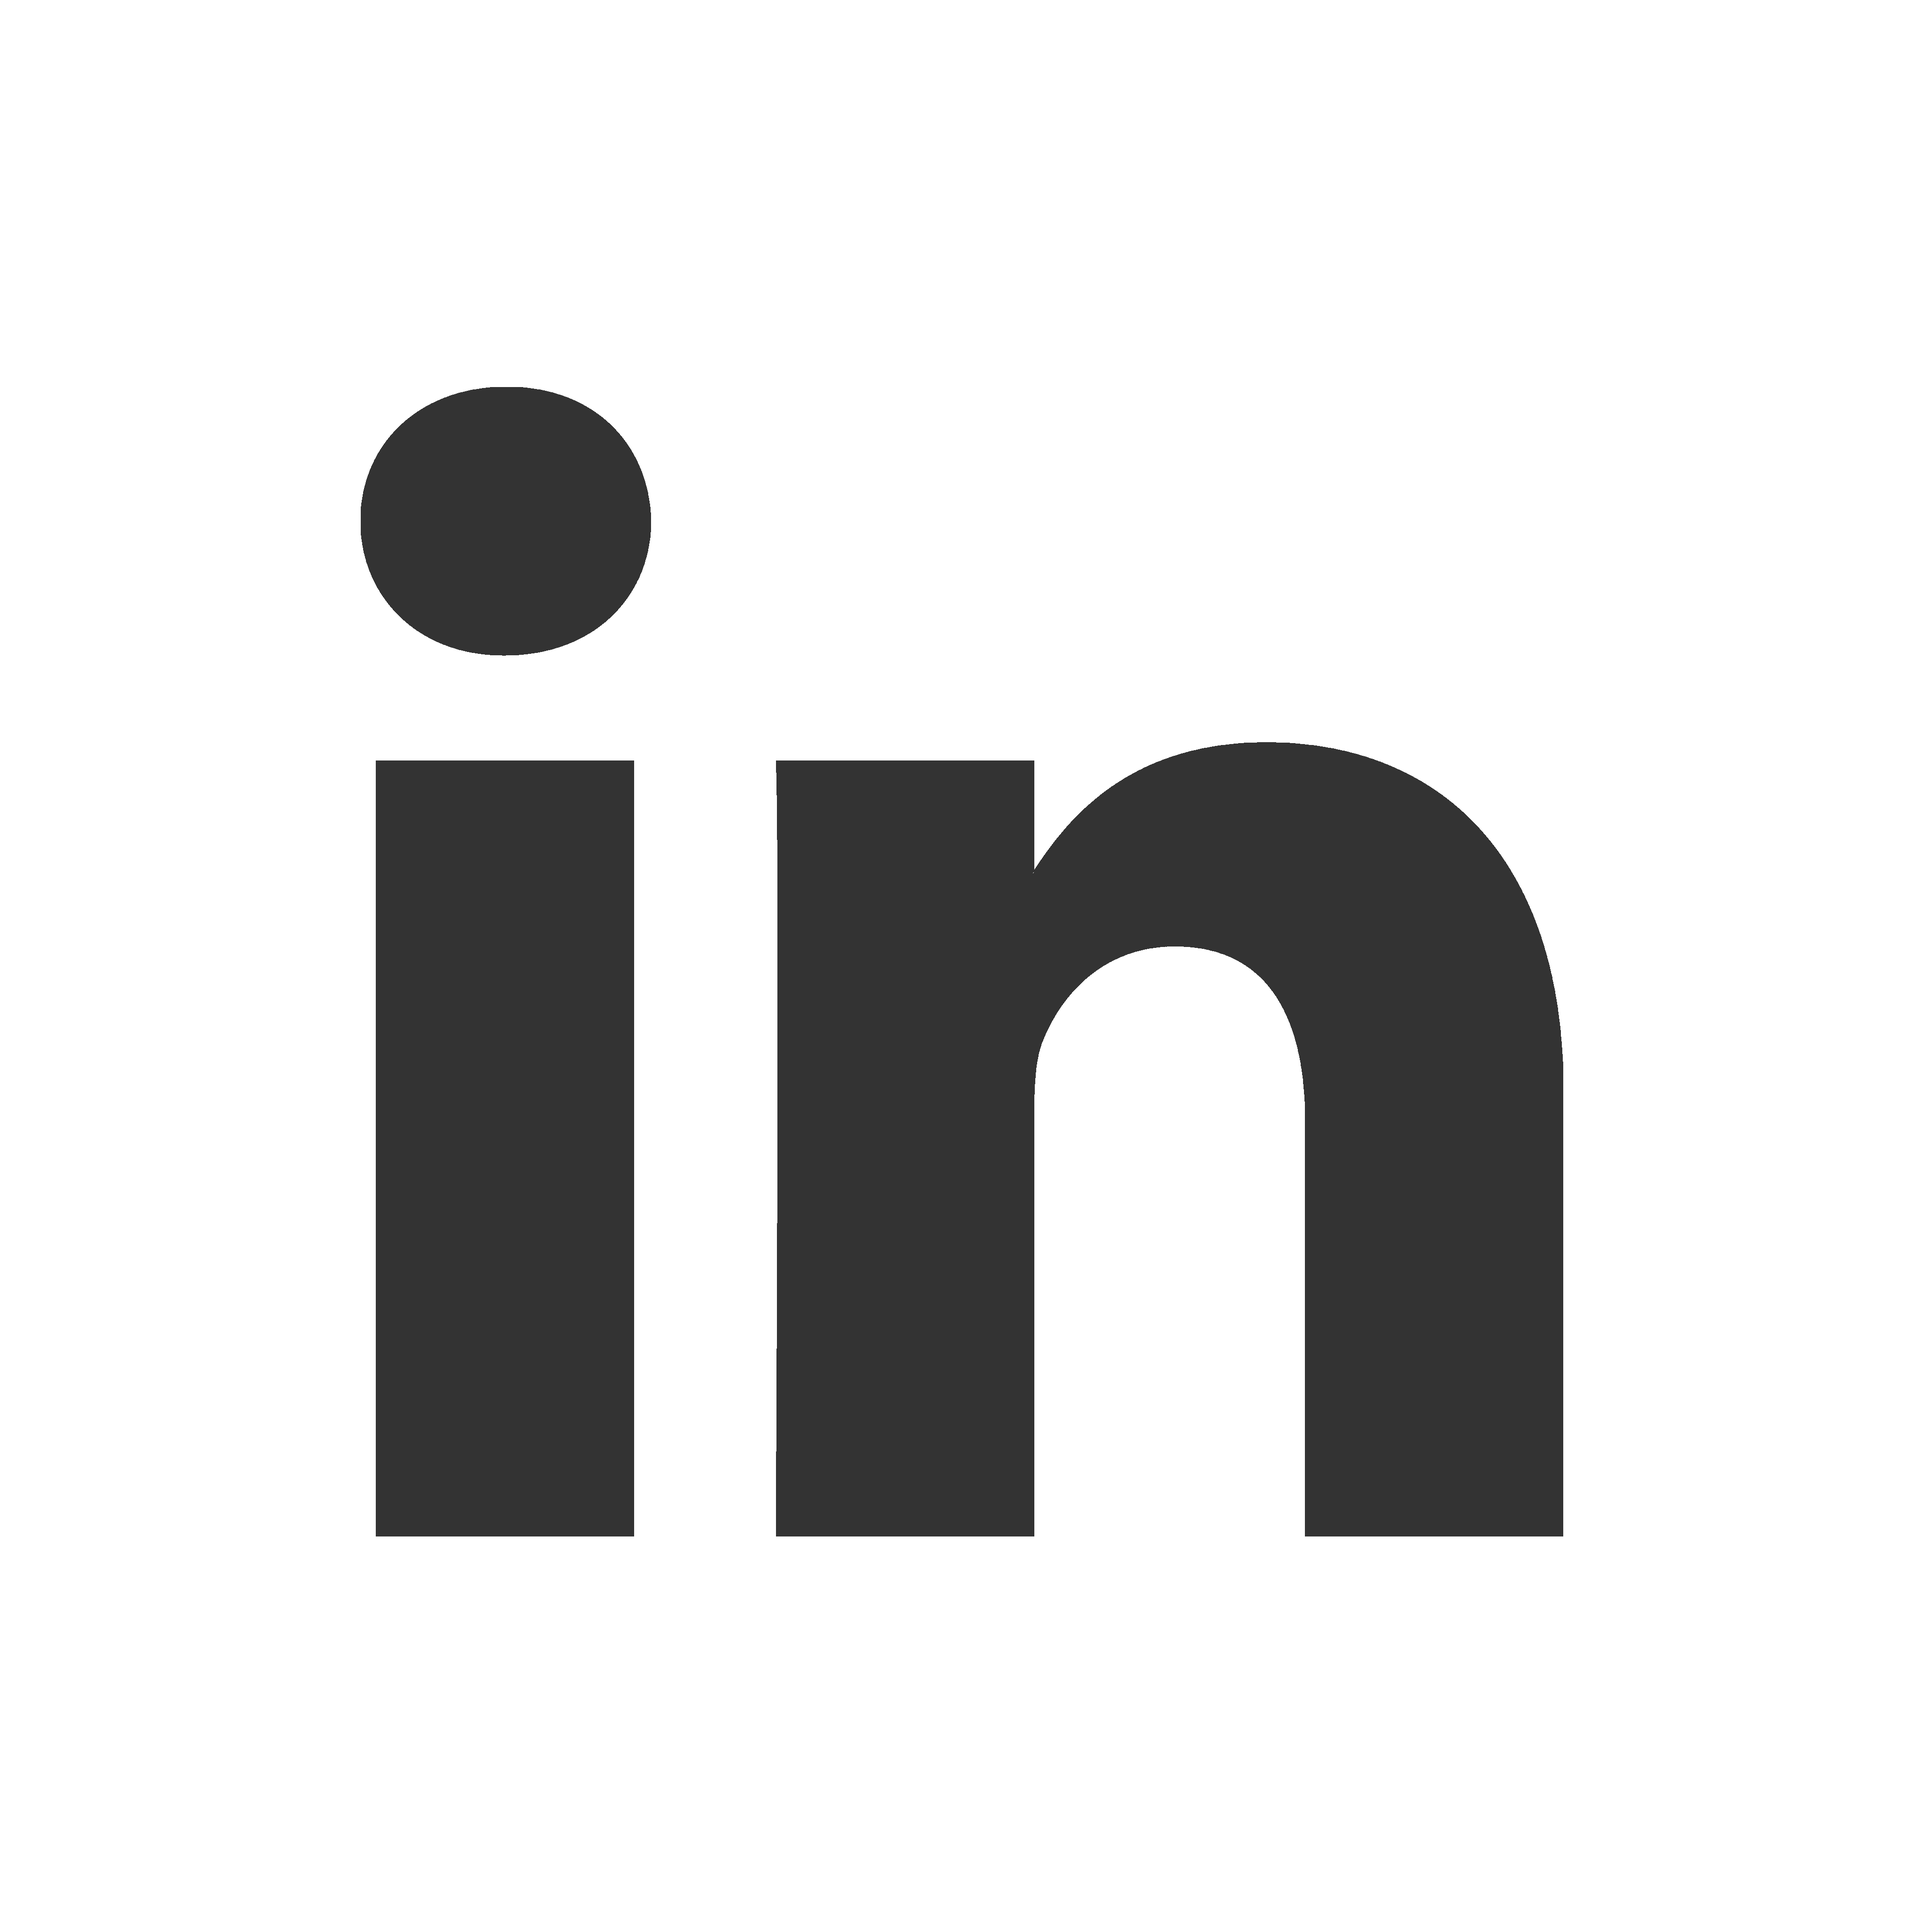
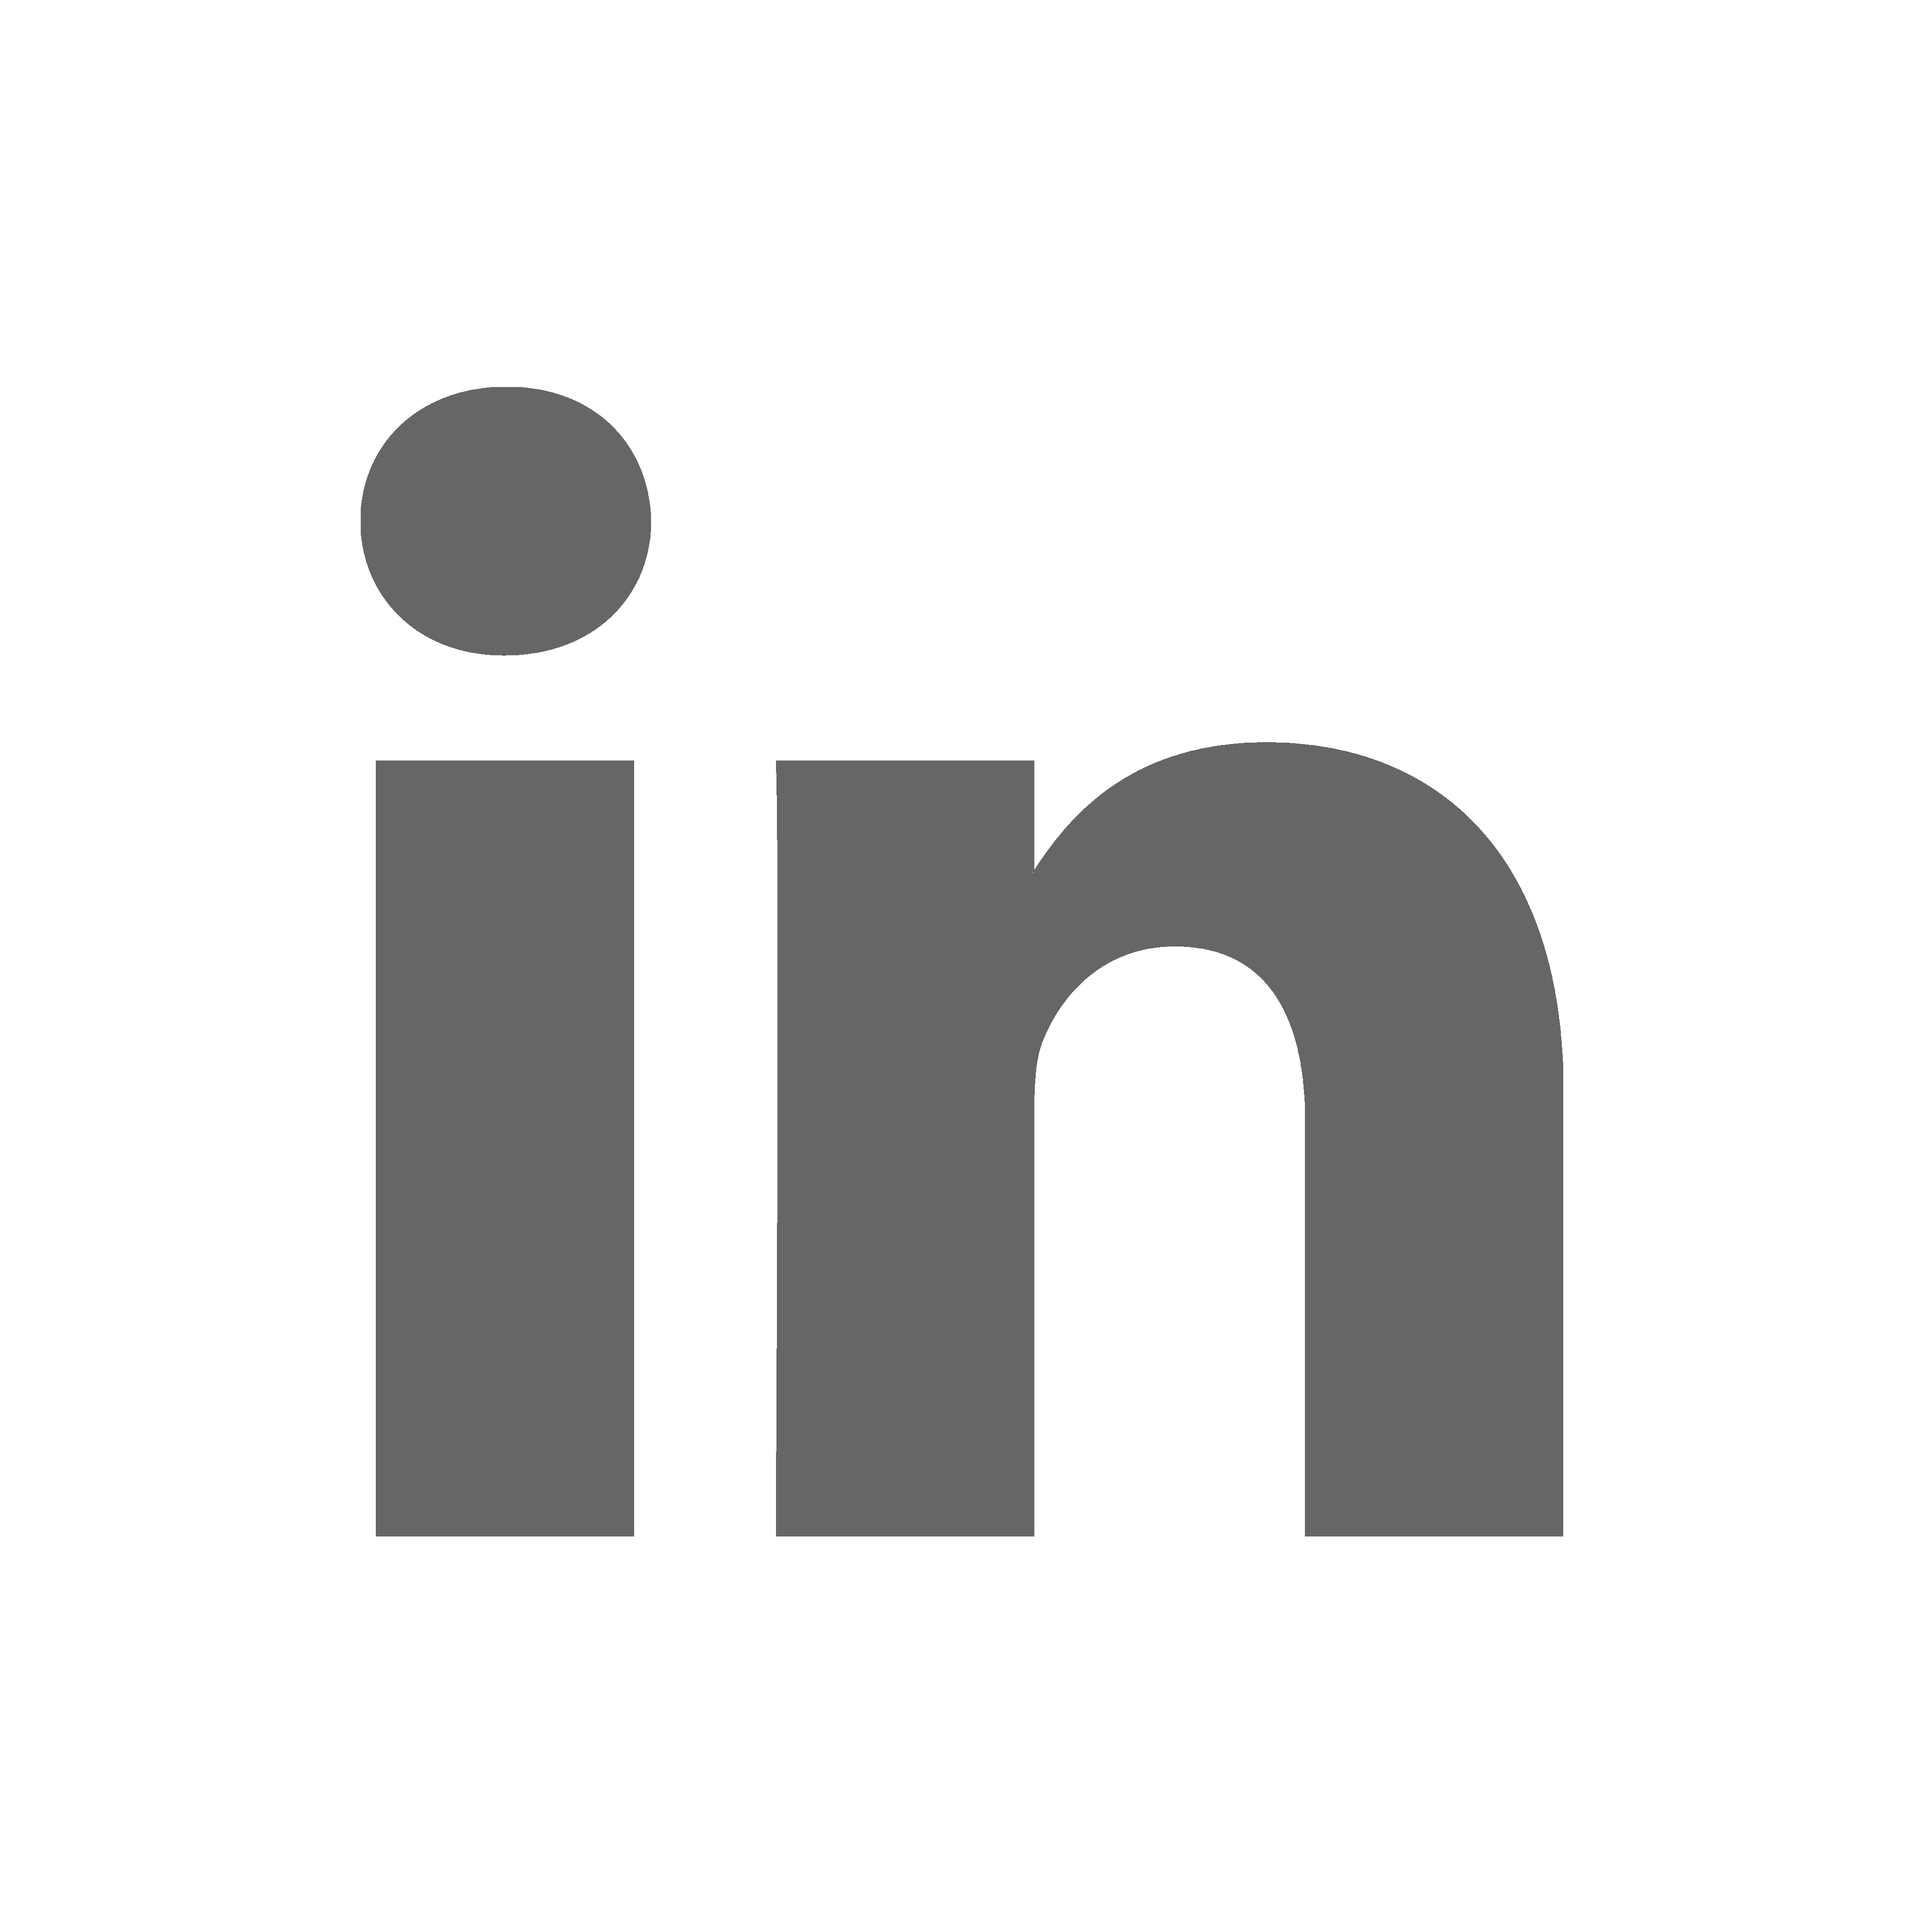
Changes for new nav bar.

Changed region(s): [[0.4062, 0.375, 0.8125, 0.8125], [0.1875, 0.375, 0.3438, 0.8125], [0.1875, 0.1875, 0.3438, 0.3438]]

diff --git a/templates/base.html b/templates/base.html
@@ -9,7 +9,7 @@
             <link rel="stylesheet" type="text/css" href="{{ ASSET_URL }}">
         {% endassets %}
         <!-- Google fonts -->
-        <link href="http://fonts.googleapis.com/css?family=Lato:300,400" rel="stylesheet" type="text/css">
+        <link href='http://fonts.googleapis.com/css?family=Open+Sans|Raleway' rel='stylesheet' type='text/css'>
         <link href="//maxcdn.bootstrapcdn.com/font-awesome/4.1.0/css/font-awesome.min.css" rel="stylesheet">
 
         <script type="text/javascript">
@@ -18,31 +18,39 @@
         {% block head%}{% endblock %}
     </head>
     <body id="kateheddleston-wrap" {% if g.nav_view == 'home' %}class='background-image'{% endif %}>
-        <nav class="navbar container-fluid navbar-fixed-top" role="navigation">
-            <div class="navbar-header">
-                <button type="button" class="navbar-toggle" data-toggle="collapse" data-target="#nav-target">
-                    <span class="sr-only">Toggle navigation</span>
-                    <span class="icon-bar"></span>
-                    <span class="icon-bar"></span>
-                    <span class="icon-bar"></span>
-                </button>
-            </div>
-            <div class="collapse navbar-collapse" id="nav-target">
-                <div class='navbar-block text navbar-left'>
-                    <ul class="nav navbar-nav">
-                        <li><a href="{{g.app_base_link}}/"><img src='/static/images/winery_bowl_small.jpg' width='30'/></a></li>
-                        <li class="{% if g.nav_view == 'about' %}active{% endif %}"><a href="{{g.app_base_link}}/about">About</a></li>
-                        <li class="{% if g.nav_view == 'talks' %}active{% endif %}"><a href="{{g.app_base_link}}/talks">Talks</a></li>
-                        <li class="{% if g.nav_view == 'blog' %}active{% endif %}"><a href="{{g.app_base_link}}/blog">Blog</a></li>
-                    </ul>
+        <nav class="" role="navigation">
+            <div class="navbar-custom" id="nav-target">
+                <div class='brand brand-top'>
+                  <a href="{{g.app_base_link}}/">
+                    <p>
+                        01101011
+                    </p>
+                    <p>
+                        01100001
+                    </p>
+                    <p>
+                        01110100
+                    </p>
+                    <p>
+                        01100101
+                    </p>
+                  </a>
                 </div>
-                <div class='navbar-block text navbar-right'>
-                    <ul class='nav navbar-nav icons'>
-                        <li><a href='https://www.facebook.com/kate.heddleston' target="_blank"><img src='/static/images/facebook_icon.png'/></a></li>
-                        <li><a href='https://twitter.com/heddle317' target="_blank"><img src='/static/images/twitter_icon.png'/></a></li>
-                        <li><a href='http://www.linkedin.com/in/kateheddleston' target="_blank"><img src='/static/images/linkedin_icon.png'/></a></li>
-                        <li><a href='https://github.com/heddle317' target="_blank"><img src='/static/images/github_icon.png'/></a></li>
-                    </ul>
+                <div class='navbar-text'>
+                  <ul class="">
+                      <li class="{% if g.nav_view == 'about' %}active{% endif %}"><a href="{{g.app_base_link}}/about">About</a></li>
+                      <li class="{% if g.nav_view == 'talks' %}active{% endif %}"><a href="{{g.app_base_link}}/talks">Talks</a></li>
+                      <li class="{% if g.nav_view == 'blog' %}active{% endif %}"><a href="{{g.app_base_link}}/blog">Blog</a></li>
+                  </ul>
+                  <ul class='icons'>
+                      <li><a href='https://www.facebook.com/kate.heddleston' target="_blank"><img src='/static/images/facebook_icon.png'/></a></li>
+                      <li><a href='https://twitter.com/heddle317' target="_blank"><img src='/static/images/twitter_icon.png'/></a></li>
+                      <li><a href='http://www.linkedin.com/in/kateheddleston' target="_blank"><img src='/static/images/linkedin_icon.png'/></a></li>
+                      <li><a href='https://github.com/heddle317' target="_blank"><img src='/static/images/github_icon.png'/></a></li>
+                  </ul>
+                </div>
+                <div class='brand brand-bottom'>
+                  <p>Kate Heddleston</p>
                 </div>
             </div><!-- /.navbar-collapse -->
         </nav>

diff --git a/static/css/internal/style.css b/static/css/internal/style.css
@@ -6,35 +6,80 @@
     width:30px;
 }
 
-#kateheddleston-wrap .navbar {
-    background-color:#ffffff;
-    box-shadow:0 0 2px rgba(0,0,0,.075);
+#kateheddleston-wrap {
+  background-color:#eaeaea;
+  font-family: 'Raleway', sans-serif;
 }
 
-#kateheddleston-wrap .navbar a {
+#kateheddleston-wrap .navbar-custom {
+    /*box-shadow:0 0 2px rgba(0,0,0,.075);*/
+    background-color:rgba(255, 255, 255, .6);
+    position:fixed;
+    top:0;
+    left:2%;
+    height:100%;
+    width:225px;
+}
+
+#kateheddleston-wrap .navbar-custom .navbar-text {
+  position:absolute;
+  top:25%;
+}
+
+#kateheddleston-wrap .navbar-custom li {
+    display:block;
+}
+
+#kateheddleston-wrap .navbar-custom a {
     letter-spacing:2px;
     text-align:center;
     text-transform:uppercase;
-    font:16px/26px Georgia, "Times New Roman", Times, serif;
+    /*font:16px/26px Georgia, "Times New Roman", Times, serif;*/
     text-decoration:none;
-    color:#353435;
+    color:#666666;
+    /*color:#353435;*/
     line-height:30px;
     font-size:20px;
 }
 
-#kateheddleston-wrap .navbar a:hover {
+#kateheddleston-wrap .navbar-custom a:hover {
     background:none;
     color:#660033;
 }
 
-#kateheddleston-wrap .navbar .active a {
+#kateheddleston-wrap .navbar-custom .active a {
     color:#660033;
     text-decoration:underline;
 }
 
-.navbar-block {
-    text-align:center;
-    display:inline-block;
+#kateheddleston-wrap .brand {
+  text-align:justify;
+  width:135px;
+  color:#666666;
+  text-transform:uppercase;
+}
+
+#kateheddleston-wrap .brand p {
+  margin:0;
+  font-family: 'Open Sans', sans-serif;
+}
+
+#kateheddleston-wrap .brand a {
+  font-size:14px;
+  line-height:14px;
+  font-family: 'Open Sans', sans-serif;
+}
+
+#kateheddleston-wrap .brand-top {
+  position:absolute;
+  top:5%;
+  left:45px;
+}
+
+#kateheddleston-wrap .brand-bottom {
+  position:absolute;
+  bottom:5%;
+  left:45px;
 }
 
 #about_page .main-image {
@@ -42,8 +87,7 @@
 }
 
 .main-content {
-    margin-top:60px;
-    background-color:#f8f8f8;
+  margin-left:240px;
 }
 
 .background-image {
@@ -121,20 +165,19 @@ iframe {
     width:320px;
     overflow:hidden;
     padding:0;
-    box-shadow:1px 2px 3px rgba(0,0,0,.075);
     /*border:1px solid #ddd;*/
-    border-radius:11px;
     transition:all .2s ease-in-out;
+    border-radius:5px;
+    background-color:#f8f8f8;
     line-height:1.42857143;
     display:block;
-    background-color:#fff;
     text-decoration:none;
     color:#777;
     margin-bottom:30px;
 }
 
 #kateheddleston-wrap .blog_item:hover {
-    box-shadow:0 2px 4px 3px rgba(0,0,0,.075);
+    box-shadow:1px 2px 3px rgba(0,0,0,.075);
 }
 
 #kateheddleston-wrap .blog_item img {

diff --git a/templates/admin_base.html b/templates/admin_base.html
@@ -17,7 +17,7 @@
         {% block head%}{% endblock %}
     </head>
     <body id="kateheddleston-wrap">
-        {% if g.current_user %}
+        {% if g.current_user.is_authenticated() %}
         <nav class="navbar container-fluid navbar-static-top navbar-default" role="navigation">
             <div class='container-fluid'>
                 <div class="navbar-header">
